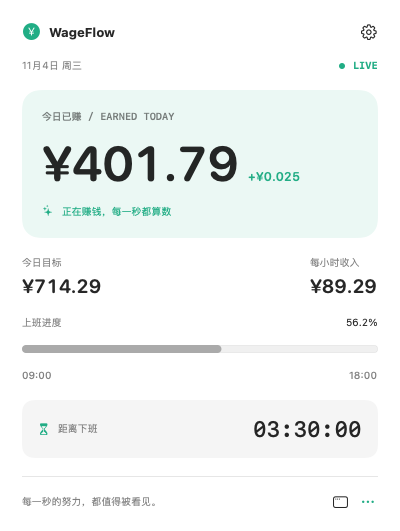
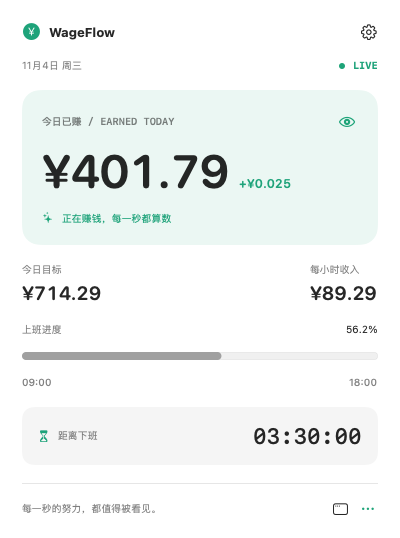
Move income hiding into the dashboard
Add an eye toggle to the earnings card so income can be hidden while the
dashboard shows it, with the menu bar tooltip following along. Drop the
settings switch, explain the new location in the privacy card, keep the
live toggle value when saving other settings, and shrink the settings
window back to its original height.

diff --git a/Sources/WageFlow/WageFlowApp.swift b/Sources/WageFlow/WageFlowApp.swift
@@ -181,7 +181,7 @@ final class SalaryAppDelegate: NSObject, NSApplicationDelegate {
             window.title = "WageFlow 设置"
             window.styleMask = [.titled, .closable, .miniaturizable, .resizable]
             window.isReleasedWhenClosed = false
-            window.setContentSize(NSSize(width: 560, height: 690))
+            window.setContentSize(NSSize(width: 560, height: 650))
             window.contentMinSize = NSSize(width: 540, height: 600)
             window.setFrameAutosaveName("WageFlowSettings")
             window.center()
@@ -271,8 +271,21 @@ struct Dashboard: View {
                     lunchBreak(s)
                 } else {
                     VStack(alignment: .leading, spacing: 12) {
-                        Text("今日已赚 / EARNED TODAY")
-                            .font(.system(size: 10, weight: .semibold, design: .monospaced)).foregroundStyle(.secondary)
+                        HStack(spacing: 8) {
+                            Text("今日已赚 / EARNED TODAY")
+                                .font(.system(size: 10, weight: .semibold, design: .monospaced)).foregroundStyle(.secondary)
+                            Spacer()
+                            Button { store.settings.hideIncome.toggle() } label: {
+                                Image(systemName: store.settings.hideIncome ? "eye.slash" : "eye")
+                                    .font(.system(size: 12, weight: .medium))
+                                    .foregroundStyle(store.tint)
+                                    .frame(width: 22, height: 22)
+                                    .contentShape(Rectangle())
+                            }
+                            .buttonStyle(.plain)
+                            .help(store.settings.hideIncome ? "显示收入金额" : "隐藏收入金额")
+                            .accessibilityLabel(store.settings.hideIncome ? "显示收入金额" : "隐藏收入金额")
+                        }
                         HStack(alignment: .firstTextBaseline, spacing: 8) {
                             Group {
                                 if store.settings.hideIncome {

diff --git a/Sources/WageFlow/SettingsPanel.swift b/Sources/WageFlow/SettingsPanel.swift
@@ -140,10 +140,11 @@ struct SettingsPanel: View {
                 Button("还原更改") { editor.reset(to: store.settings) }.disabled(!editor.hasChanges)
                 Button("保存设置") {
                     guard canSave else { return }
-                    // Preserve existing stored cost preferences.
+                    // Preserve preferences that are edited outside this panel.
                     var settings = editor.candidate
                     settings.commute = store.settings.commute
                     settings.dailyCost = store.settings.dailyCost
+                    settings.hideIncome = store.settings.hideIncome
                     store.settings = settings
                     editor.reset(to: settings)
                 }.buttonStyle(.borderedProminent).disabled(!canSave)
@@ -223,8 +224,7 @@ struct SettingsPanel: View {
                 Text("配色将在保存后应用于看板。").font(.caption).foregroundStyle(.secondary)
             }
             card("隐私保护", icon: "eye.slash") {
-                Toggle("隐藏收入金额", isOn: $editor.draft.hideIncome).toggleStyle(.switch)
-                Text("隐藏今日看板和菜单栏悬停提示中的收入。薪资设置仍可查看和编辑。")
+                Text("收入金额可在看板中点击眼睛图标隐藏，菜单栏悬停提示会同步隐藏。")
                     .font(.caption).foregroundStyle(.secondary)
                 Divider()
                 Label("所有设置仅保存在这台 Mac 上，不上传薪资数据。", systemImage: "lock.shield")

diff --git a/scripts/render-previews.py b/scripts/render-previews.py
@@ -40,7 +40,7 @@ struct PreviewRenderer {
         try render(Dashboard(store: store), name: "dashboard-restday", width: 400, height: 430)
         for (page, name, height) in [(0, "settings-salary", 650.0),
                                      (1, "settings-schedule", 1030.0),
-                                     (2, "settings-appearance", 690.0)] {
+                                     (2, "settings-appearance", 650.0)] {
             try render(SettingsPanel(store: store, previewPage: page), name: name, width: 560, height: height)
         }
     }

diff --git a/README.md b/README.md
@@ -11,7 +11,7 @@
 - 自动计薪日历，可手动修改日期、重置并保存。
 - 午休时段独立页面，餐碗热气动画与午休结束倒计时。
 - 休息日专属看板，咖啡热气和太阳呼吸动画。
-- 八种配色（薄荷、落日、鸢尾、海盐、珊瑚、琥珀、樱花、石墨）、金额隐藏及独立桌面看板。
+- 八种配色（薄荷、落日、鸢尾、海盐、珊瑚、琥珀、樱花、石墨）、看板内一键隐藏金额及独立桌面看板。
 
 ## 预览
 
